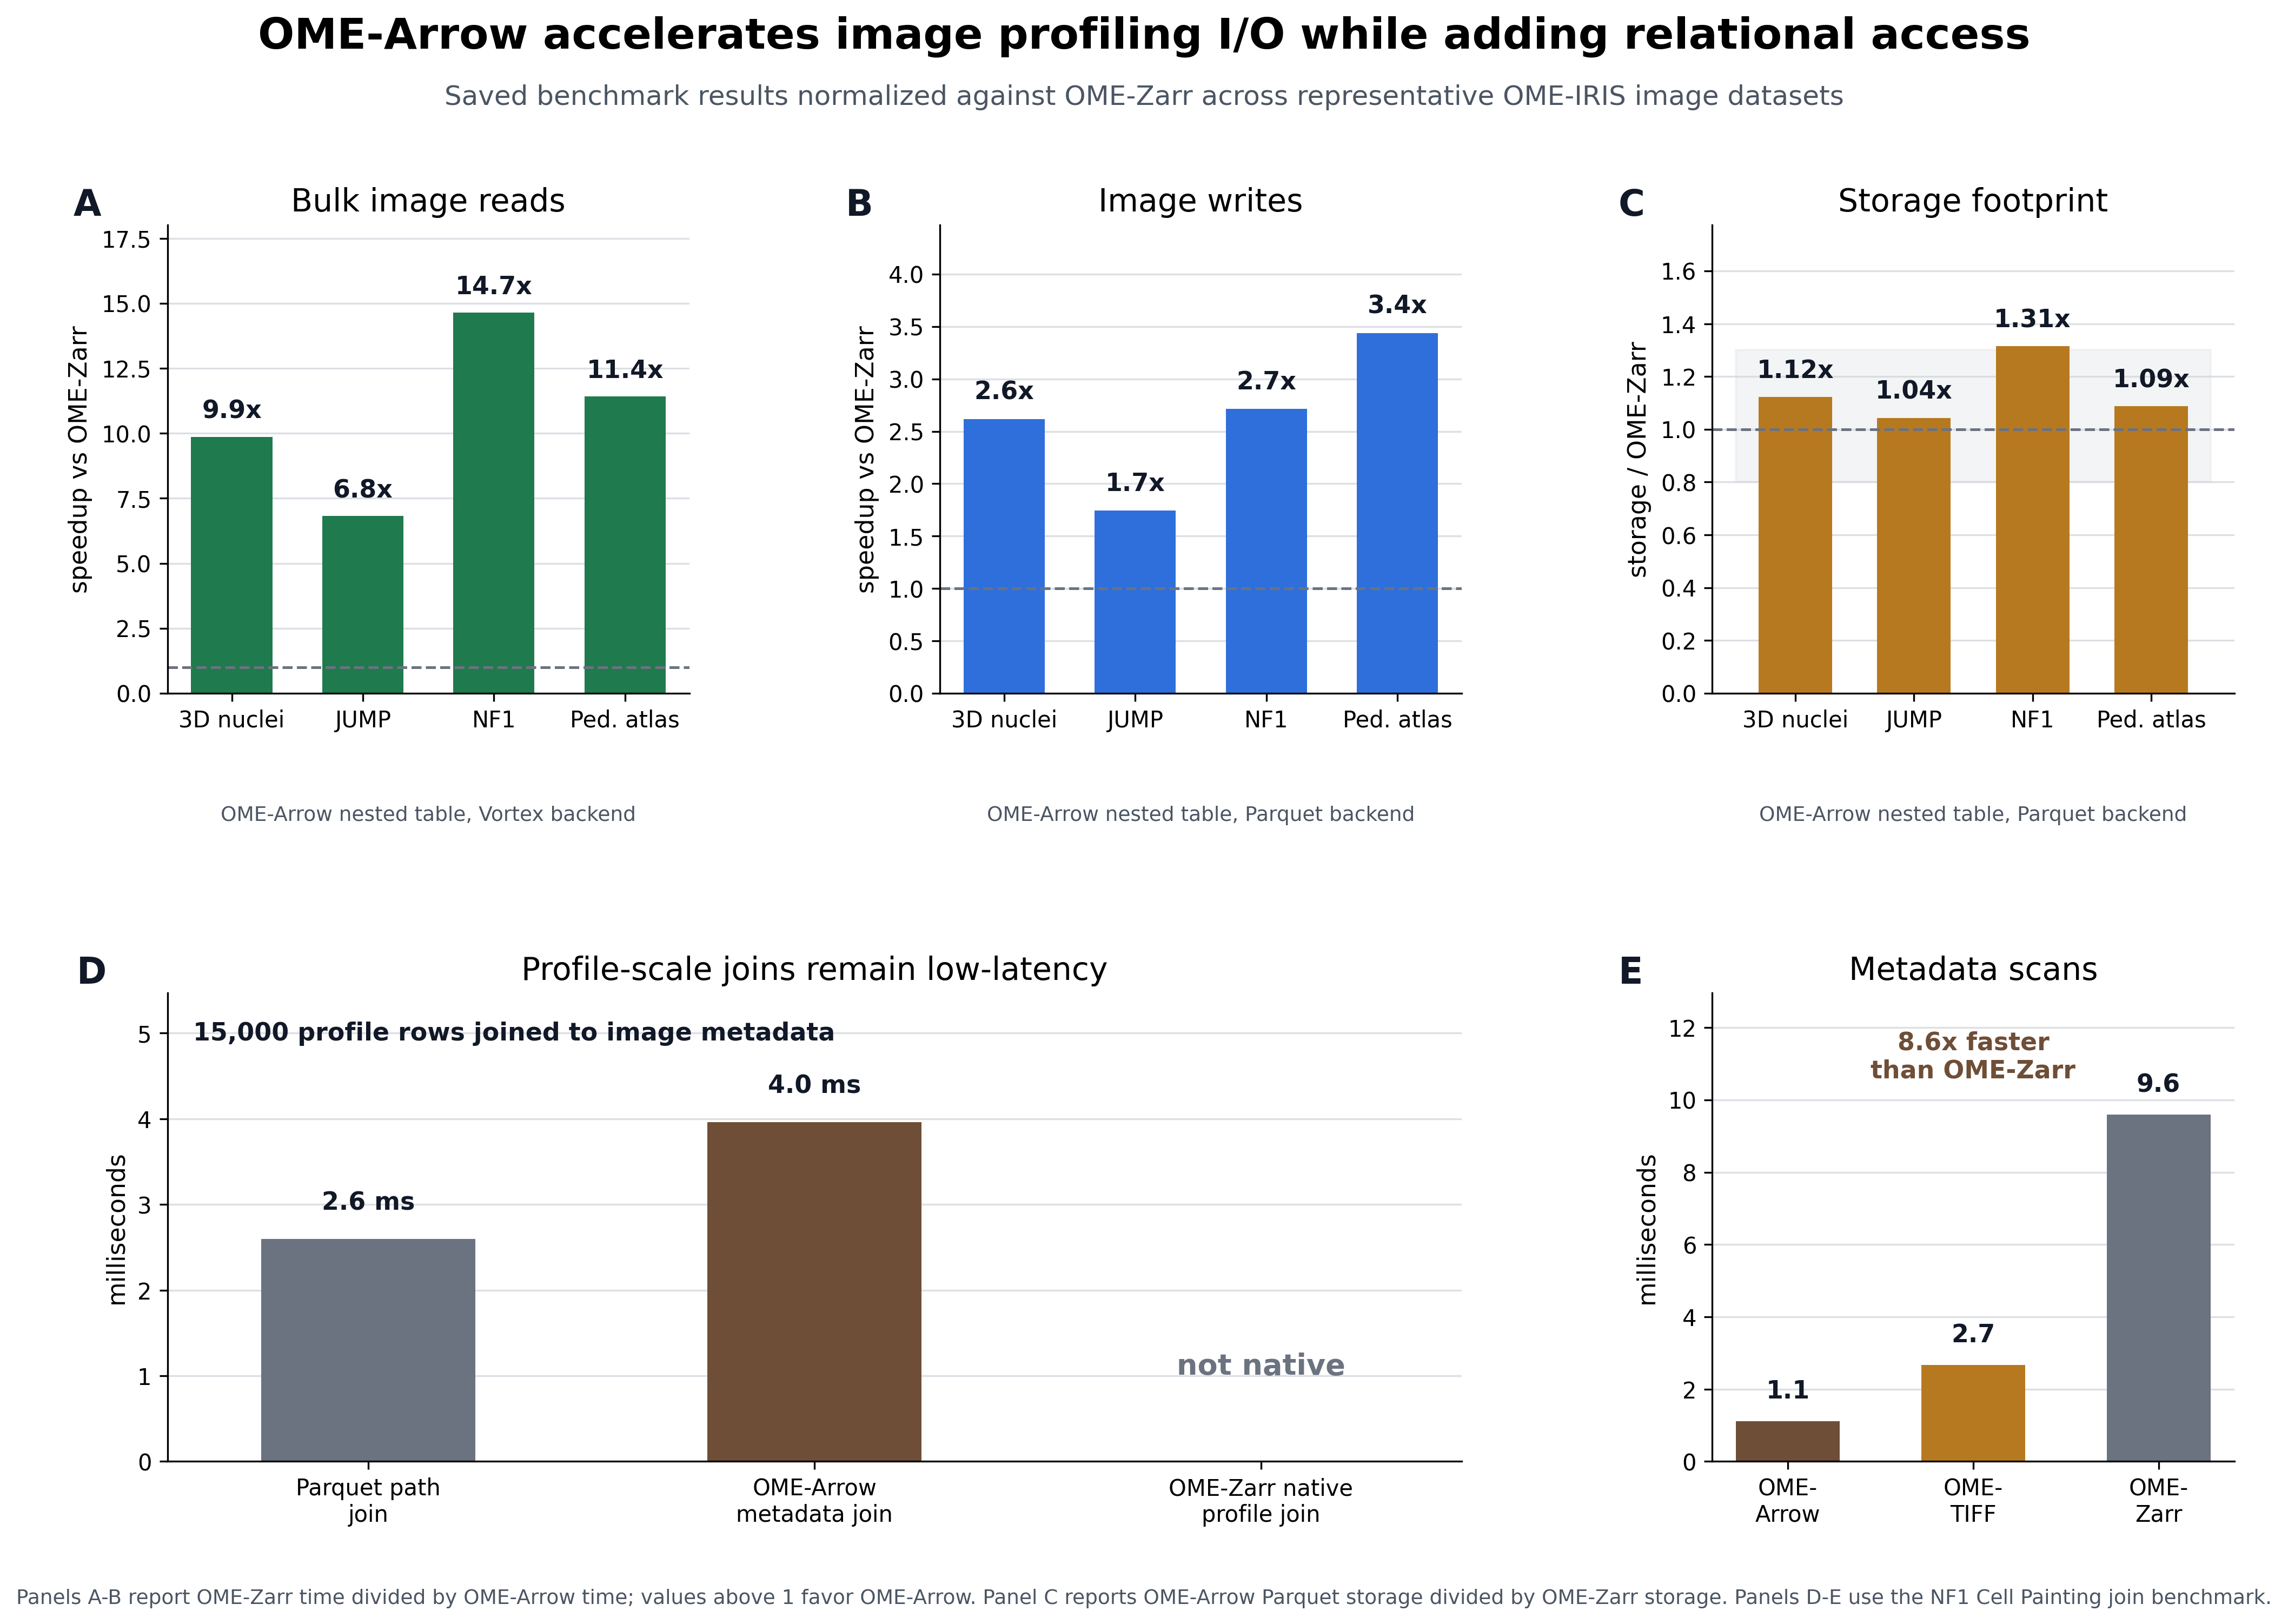
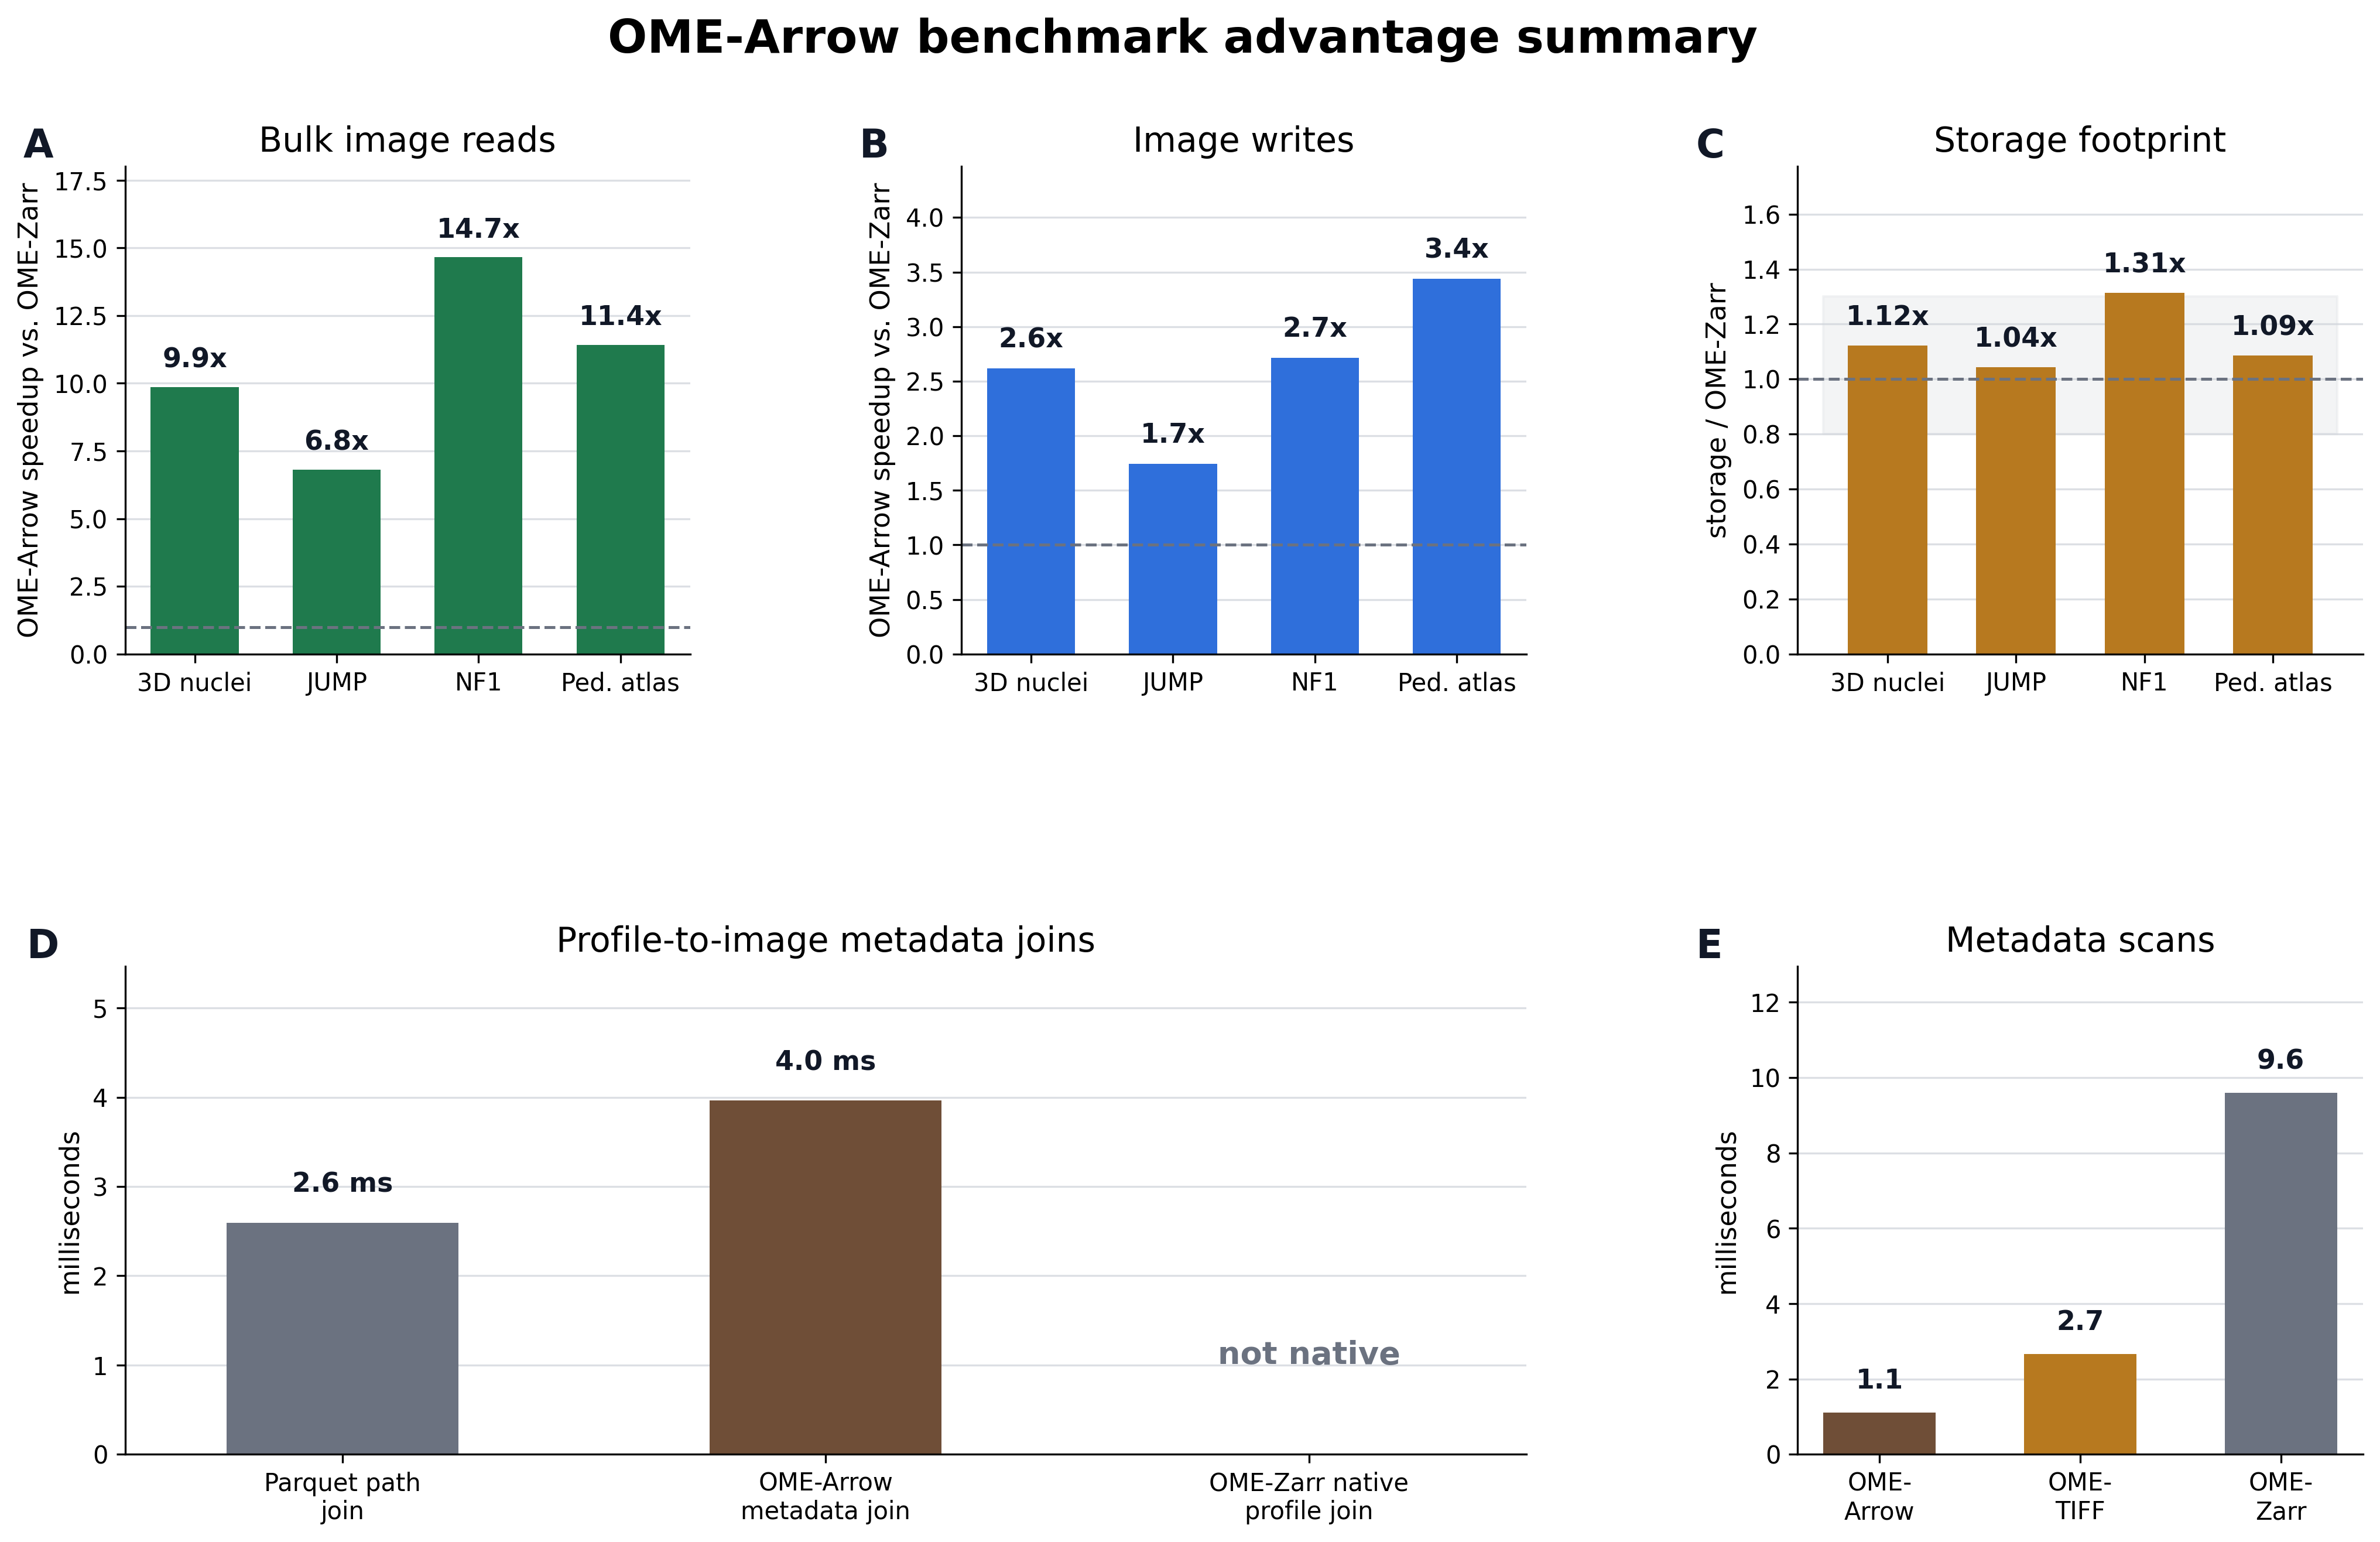
respond to gregs review

diff --git a/src/benchmarks/plot_ome_arrow_advantage_summary.py b/src/benchmarks/plot_ome_arrow_advantage_summary.py
@@ -33,7 +33,6 @@ GOLD = "#B7791F"
 BROWN = "#6F4E37"
 GRAY = "#6B7280"
 INK = "#111827"
-MUTED = "#4B5563"
 GRID = "#D1D5DB"
 SHADE = "#E5E7EB"
 
@@ -132,8 +131,6 @@ def plot_advantage(summary: pd.DataFrame, joins: pd.DataFrame) -> None:
         tiff_meta["avg_seconds"] * 1000,
         zarr_meta["avg_seconds"] * 1000,
     ]
-    scan_speedup = zarr_meta["avg_seconds"] / converted_oa_meta["avg_seconds"]
-
     plt.rcParams.update(
         {
             "font.family": "DejaVu Sans",
@@ -144,7 +141,7 @@ def plot_advantage(summary: pd.DataFrame, joins: pd.DataFrame) -> None:
             "ytick.labelsize": 10,
         }
     )
-    fig = plt.figure(figsize=(14, 10.3), facecolor="white")
+    fig = plt.figure(figsize=(14, 9.4), facecolor="white")
     grid = fig.add_gridspec(2, 3, hspace=0.64, wspace=0.48)
 
     ax_read = fig.add_subplot(grid[0, 0])
@@ -164,19 +161,9 @@ def plot_advantage(summary: pd.DataFrame, joins: pd.DataFrame) -> None:
     )
     ax_read.axhline(1, color=GRAY, lw=1.2, ls="--")
     ax_read.set_xticks(x, labels)
-    ax_read.set_ylabel("speedup vs OME-Zarr")
+    ax_read.set_ylabel("OME-Arrow speedup vs. OME-Zarr")
     ax_read.set_title("Bulk image reads")
     ax_read.set_ylim(0, max(read_speedup) * 1.23)
-    ax_read.text(
-        0.5,
-        -0.24,
-        "OME-Arrow nested table, Vortex backend",
-        ha="center",
-        va="top",
-        transform=ax_read.transAxes,
-        color=MUTED,
-        fontsize=9,
-    )
     panel_label(ax_read, "A")
     style_axis(ax_read)
 
@@ -189,19 +176,9 @@ def plot_advantage(summary: pd.DataFrame, joins: pd.DataFrame) -> None:
     )
     ax_write.axhline(1, color=GRAY, lw=1.2, ls="--")
     ax_write.set_xticks(x, labels)
-    ax_write.set_ylabel("speedup vs OME-Zarr")
+    ax_write.set_ylabel("OME-Arrow speedup vs. OME-Zarr")
     ax_write.set_title("Image writes")
     ax_write.set_ylim(0, max(write_speedup) * 1.30)
-    ax_write.text(
-        0.5,
-        -0.24,
-        "OME-Arrow nested table, Parquet backend",
-        ha="center",
-        va="top",
-        transform=ax_write.transAxes,
-        color=MUTED,
-        fontsize=9,
-    )
     panel_label(ax_write, "B")
     style_axis(ax_write)
 
@@ -225,16 +202,6 @@ def plot_advantage(summary: pd.DataFrame, joins: pd.DataFrame) -> None:
     ax_storage.set_ylabel("storage / OME-Zarr")
     ax_storage.set_title("Storage footprint")
     ax_storage.set_ylim(0, max(storage_ratio) * 1.35)
-    ax_storage.text(
-        0.5,
-        -0.24,
-        "OME-Arrow nested table, Parquet backend",
-        ha="center",
-        va="top",
-        transform=ax_storage.transAxes,
-        color=MUTED,
-        fontsize=9,
-    )
     panel_label(ax_storage, "C")
     style_axis(ax_storage)
 
@@ -269,17 +236,8 @@ def plot_advantage(summary: pd.DataFrame, joins: pd.DataFrame) -> None:
     ax_join.set_xticks(join_x, join_labels)
     ax_join.set_xlim(-0.45, len(join_labels) - 0.55)
     ax_join.set_ylabel("milliseconds")
-    ax_join.set_title("Profile-scale joins remain low-latency")
+    ax_join.set_title("Profile-to-image metadata joins")
     ax_join.set_ylim(0, max(join_ms) * 1.38)
-    ax_join.text(
-        0.02,
-        0.94,
-        f"{int(oa_join['rows_returned']):,} profile rows joined to image metadata",
-        transform=ax_join.transAxes,
-        color=INK,
-        fontweight="bold",
-        va="top",
-    )
     panel_label(ax_join, "D", x=-0.07)
     style_axis(ax_join)
 
@@ -301,46 +259,18 @@ def plot_advantage(summary: pd.DataFrame, joins: pd.DataFrame) -> None:
     ax_scan.set_ylabel("milliseconds")
     ax_scan.set_title("Metadata scans")
     ax_scan.set_ylim(0, max(scan_ms) * 1.35)
-    ax_scan.text(
-        0.5,
-        0.92,
-        f"{scan_speedup:.1f}x faster\nthan OME-Zarr",
-        transform=ax_scan.transAxes,
-        color=BROWN,
-        ha="center",
-        va="top",
-        fontweight="bold",
-    )
     panel_label(ax_scan, "E")
     style_axis(ax_scan)
 
     fig.suptitle(
-        "OME-Arrow accelerates image profiling I/O while adding relational access",
+        "OME-Arrow benchmark advantage summary",
         fontsize=19,
         fontweight="bold",
-        y=0.985,
-    )
-    fig.text(
-        0.5,
-        0.932,
-        "Saved benchmark results normalized against OME-Zarr across representative OME-IRIS image datasets",
-        ha="center",
-        fontsize=12,
-        color=MUTED,
-    )
-    fig.text(
-        0.5,
-        0.035,
-        "Panels A-B report OME-Zarr time divided by OME-Arrow time; values above 1 favor OME-Arrow. "
-        "Panel C reports OME-Arrow Parquet storage divided by OME-Zarr storage. "
-        "Panels D-E use the NF1 Cell Painting join benchmark.",
-        ha="center",
-        fontsize=9,
-        color=MUTED,
+        y=0.97,
     )
 
     FIGURES_DIR.mkdir(exist_ok=True)
-    fig.subplots_adjust(top=0.86, bottom=0.12, left=0.07, right=0.98)
+    fig.subplots_adjust(top=0.88, bottom=0.10, left=0.07, right=0.98)
     fig.savefig(PLOT_PNG, dpi=300, bbox_inches="tight")
     plt.close(fig)
 

diff --git a/README.md b/README.md
@@ -21,20 +21,36 @@ All are small representative subsets drawn from [`cytomining/CytoDataFrame`](htt
 | `pediatric-cancer-atlas`    | 6      | 3 (ch1, ch2, ch3)  | 2D             | 2 fields from a pediatric cancer atlas Cell Painting plate; includes feature profiles   | [CytoDataFrame pediatric atlas](https://github.com/cytomining/CytoDataFrame/tree/main/tests/data/cytotable/pediatric_cancer_atlas_profiling) |
 | `nuclei-3d`                 | 4      | 1                  | 3D             | CellProfiler tutorial 3D noise nuclei segmentation volumes (~13 MB each)                | [CytoDataFrame 3D nuclei](https://github.com/cytomining/CytoDataFrame/tree/main/tests/data/CP_tutorial_3D_noise_nuclei_segmentation)         |
 
+The summary figure below uses these saved benchmark artifact sizes:
+
+| Figure label | Dataset purpose/design                                       | Image tensor shape    | Images | TIFF ref (MB) | OME-Zarr (MB) | OA NT Parquet (MB) |
+| ------------ | ------------------------------------------------------------ | --------------------- | ------ | ------------- | ------------- | ------------------ |
+| 3D nuclei    | CellProfiler tutorial 3D nuclei segmentation volumes         | TCZYX=1x1x100x258x258 | 4      | 50.88         | 20.87         | 23.43              |
+| JUMP         | Single field from JUMP Cell Painting plate BR00117006        | TCZYX=1x1x1x1080x1080 | 3      | 7.65          | 5.49          | 5.72               |
+| NF1          | NF1 fibroblast Cell Painting subset with morphology profiles | TCZYX=1x1x1x904x1224  | 15     | 10.06         | 9.52          | 12.51              |
+| Ped. atlas   | Pediatric cancer atlas Cell Painting subset with profiles    | TCZYX=1x1x1x1080x1080 | 6      | 11.65         | 9.20          | 10.00              |
+
+Size and experimental-design considerations:
+
+- These are small representative OME-IRIS subsets, not full plates or population-scale screens. They are useful for isolating format and access-pattern behavior under controlled, reproducible conditions.
+- The 2D Cell Painting datasets test common high-content screening access patterns: multi-channel field-of-view reads, image metadata scans, and profile-to-image metadata joins. NF1 and Pediatric Cancer Atlas include morphology-profile tables, so they exercise cross-modal image/profile access rather than image-only I/O.
+- The 3D nuclei dataset tests volumetric image access with larger per-image payloads and a different tensor shape, which is why its artifact sizes are larger despite fewer source images.
+- Artifact sizes should be compared within each dataset row. Differences across rows reflect image count, image dimensions, dimensionality, bit depth, channel count, and compression behavior, not only the storage format.
+
 ## Key findings
 
 > Read this section for a quick summary. The individual benchmark sections below provide the full picture.
 
-- **OME-Arrow reads and writes faster than OME-Zarr, which matters at profiling scale.** OA NT (OME-Arrow nested table) Parquet writes 2.6–3.4x faster than OME-Zarr and reads 20–50% faster when reading all images in a dataset. OA NT Vortex is 6–14x faster than OME-Zarr for multi-image reads. In image-based profiling pipelines - where a single Cell Painting experiment may involve thousands of images - faster multi-image reads directly reduce the wall time of feature extraction, QC, and model training. For random single-image access, OA NT Parquet is slower than OME-Zarr, but OA NT Vortex and Lance are both faster. OA DS (OMEArrowDataset) Parquet is the slowest OME-Arrow variant but remains comparable to OME-Zarr.
+- **OME-Arrow reads and writes faster than OME-Zarr, which matters for image-profiling workflows.** OA NT (OME-Arrow nested table) Parquet writes 2.6–3.4x faster than OME-Zarr and reads 20–50% faster when reading all images in a dataset. OA NT Vortex is 6–14x faster than OME-Zarr for multi-image reads. In image-based profiling pipelines - where a single Cell Painting experiment may involve thousands of images - faster multi-image reads directly reduce the wall time of feature extraction, QC, and model training. For random single-image access, OA NT Parquet is slower than OME-Zarr, but OA NT Vortex and Lance are both faster. OA DS (OMEArrowDataset) Parquet is the slowest OME-Arrow variant but remains comparable to OME-Zarr.
 - **OME-Arrow enables queries that OME-Zarr cannot, and fits existing data science tooling.** Because images and feature profiles are stored together in a single Arrow table, downstream tools can filter on metadata, join profile rows to pixel data, and run SQL or Arrow compute expressions without opening individual files. At plate scale this removes a whole class of file-management overhead that per-directory formats like OME-Zarr require. Arrow and Parquet are standard formats in data science tooling - [DuckDB](https://duckdb.org), [pandas](https://pandas.pydata.org), [Polars](https://pola.rs), and [PyArrow](https://arrow.apache.org/docs/python/) all work with OME-Arrow tables natively, without special adapters. This also means profiles and images share one type system and one file, replacing the two-format world (feature Parquet + image directories) typical in Cell Painting pipelines today.
-- **Profiling joins are fast.** Joining feature rows to image metadata via an OME-Arrow nested table takes ~4 ms at observation scale (~15 k rows) - comparable to a plain Parquet path join (~3 ms). The small overhead buys structured, queryable image metadata in place of opaque file paths.
+- **Profile-to-image joins are fast.** Joining feature rows to image metadata via an OME-Arrow nested table takes ~4 ms for ~15 k repeated morphology-profile rows - comparable to a plain Parquet path join (~3 ms). The small overhead buys structured, queryable image metadata in place of opaque file paths.
 - **Pre-converting removes the join at query time, at the cost of upfront conversion.** When profile and image data are co-located in a single OME-Arrow table, metadata reads drop to ~1 ms because no join is performed at query time. Pre-conversion is worth considering for read-heavy workloads where the upfront cost amortises quickly.
 - **Chunk-level Zstd-1 is the practical compression default.** Across all tested OME-IRIS datasets, chunk-level Zstd-1 achieves strong size reduction with minimal read overhead. Doubling compression to Zstd-6 shrinks files further but increases write time without meaningfully cutting read time.
 - **Reuse the `OMEArrowDataset` handle.** Keeping the handle open across reads is marginally faster than reopening per call, with the clearest benefit on random single-image reads. The difference is small in the tested datasets but the pattern is consistent.
 
 ![OME-Arrow benchmark advantage summary](figures/ome_arrow_advantage_summary.png)
 
-**OME-Arrow accelerates image profiling I/O while adding relational access.** This summary derives from the saved benchmark tables below rather than rerunning experiments. Panels A-B normalize OME-Zarr timings against OME-Arrow and show 6.8-14.7x faster bulk reads with the OME-Arrow nested-table Vortex backend and 1.7-3.4x faster writes with the OME-Arrow nested-table Parquet backend. Panel C shows that OME-Arrow Parquet storage remains comparable to OME-Zarr across representative OME-IRIS datasets. Panels D-E focus on the NF1 Cell Painting join benchmark: OME-Arrow joins 15,000 profile rows to image metadata in ~4 ms, while OME-Zarr does not provide a native relational profile-to-image join, and converted OME-Arrow metadata scans are 8.6x faster than converted OME-Zarr metadata scans.
+**OME-Arrow accelerates image profiling I/O while adding relational access.** This summary derives from the saved benchmark tables below rather than rerunning experiments. Panels A-B normalize OME-Zarr timings against OME-Arrow and show 6.8-14.7x faster bulk reads with the OME-Arrow nested-table Vortex backend and 1.7-3.4x faster writes with the OME-Arrow nested-table Parquet backend. Panel C shows that OME-Arrow Parquet storage remains comparable to OME-Zarr across representative OME-IRIS datasets. Panels D-E focus on the NF1 Cell Painting join benchmark: 15,000 repeated morphology-profile rows are joined to image metadata, not a full population-scale screen. OME-Arrow performs this join in ~4 ms, while OME-Zarr does not provide a native relational profile-to-image join; converted OME-Arrow metadata scans are 8.6x faster than converted OME-Zarr metadata scans.
 
 These speedups arise because OME-Arrow stores image payloads, metadata, and profile-linked identifiers in Arrow-compatible columnar tables rather than separate directory-based image stores plus external path indexes. This reduces file traversal, object traversal, and format-conversion overhead during bulk reads, writes, and metadata scans. Apache Arrow's contiguous columnar buffers also support zero-copy data access and SIMD-friendly execution, creating a path toward CPU/GPU acceleration because downstream tools can operate on memory layouts already suited for vectorized and accelerator-backed computation.
 
@@ -82,11 +98,11 @@ File size varies by dataset because OME-IRIS datasets differ in image count, res
 
 Breaks the NF1 experiment into individual operations across four panels: query time, in-memory result size, rows returned per query, and benchmark artifact storage.
 
-**Query time (top-left):** path joins and OA metadata joins are both in the low-millisecond range at profile scale (~15 k rows). The pre-converted OA metadata scan is fastest. Payload operations - materializing full pixel arrays - are 10–40x slower than metadata operations and dominate the right side of the bar chart.
+**Query time (top-left):** path joins and OA metadata joins are both in the low-millisecond range for ~15 k repeated morphology-profile rows. The pre-converted OA metadata scan is fastest. Payload operations - materializing full pixel arrays - are 10–40x slower than metadata operations and dominate the right side of the bar chart.
 
 **Result size (top-right):** metadata operations return small result tables (kilobytes). Payload operations materialize the full pixel arrays in memory; the OME-Arrow path allocates more memory than TIFF or Zarr because of Arrow's nested struct representation.
 
-**Rows returned (bottom-left):** the row counts differ because two access patterns are present. Operations labeled "profile rows" join at observation scale (~15 k repeated feature rows); "image rows" operations return one row per real image (15). The log scale is needed to show both on the same axis.
+**Rows returned (bottom-left):** the row counts differ because two access patterns are present. Operations labeled "profile rows" join ~15 k repeated feature rows; "image rows" operations return one row per real image (15). The log scale is needed to show both on the same axis.
 
 **Artifact storage (bottom-right):** shows how much disk space each converted artifact requires. The OME-Arrow image index, converted profile-image table, OME-TIFF files, and OME-Zarr groups are all within a factor of 3 of each other for this dataset.
 